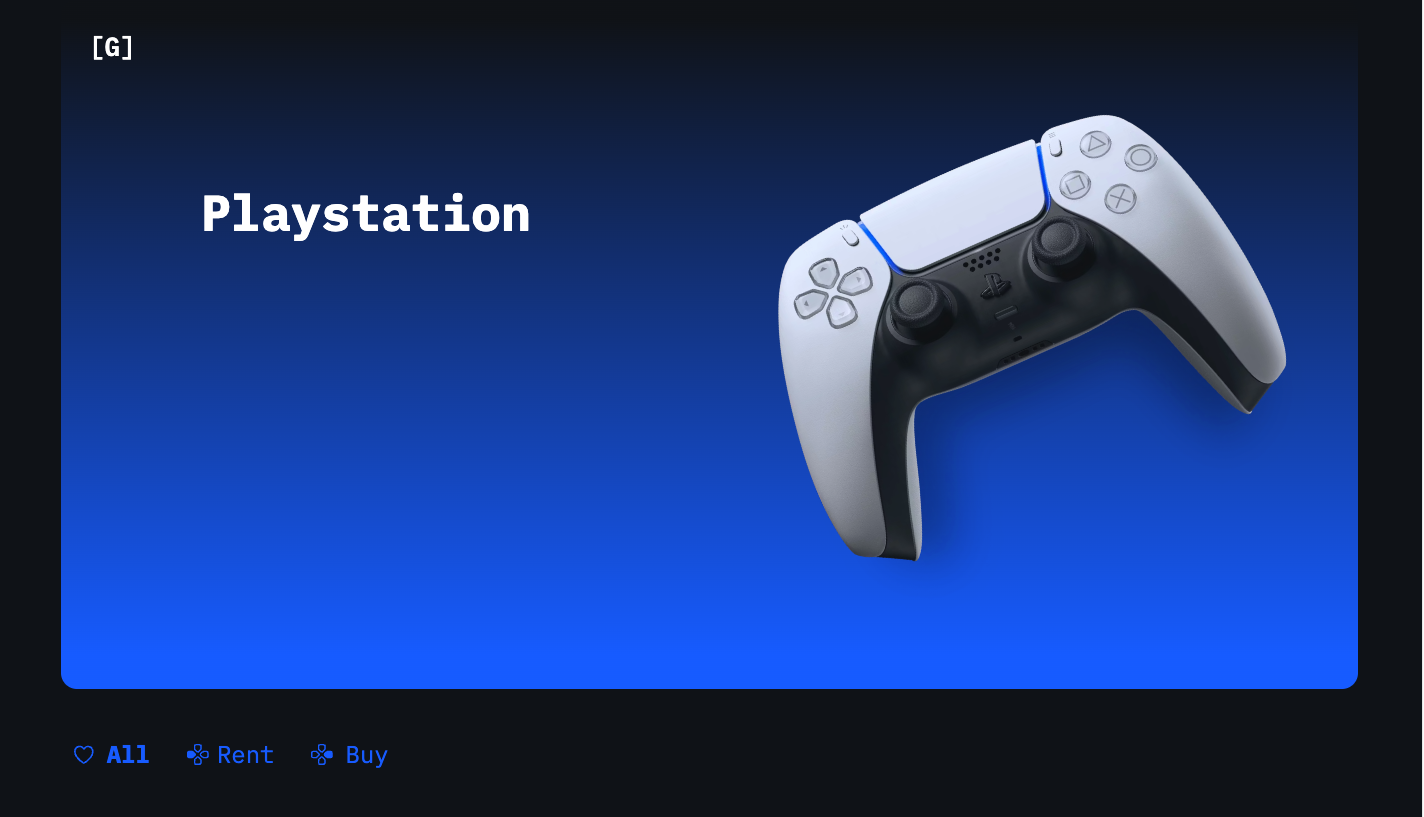
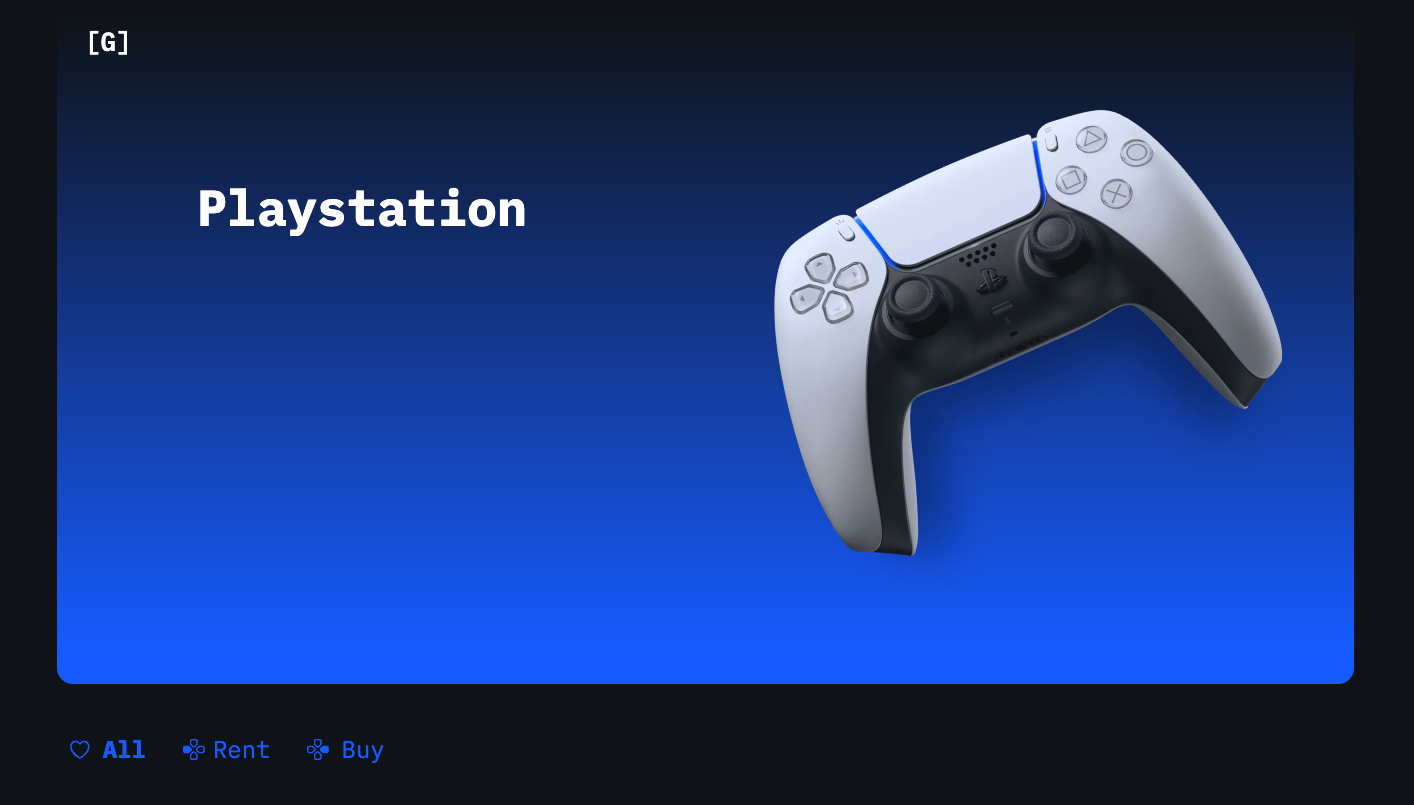
Images sizing and placement corrections DONE

diff --git a/assets/css/main.css b/assets/css/main.css
@@ -2699,6 +2699,8 @@ input[type="radio"] + label:before {
 .image.fit img {
   width: 80px;
   width: 100%;
+  width: 65vw;
+  margin-inline: auto;
   /* margin-right: 10px; */
 }
 
